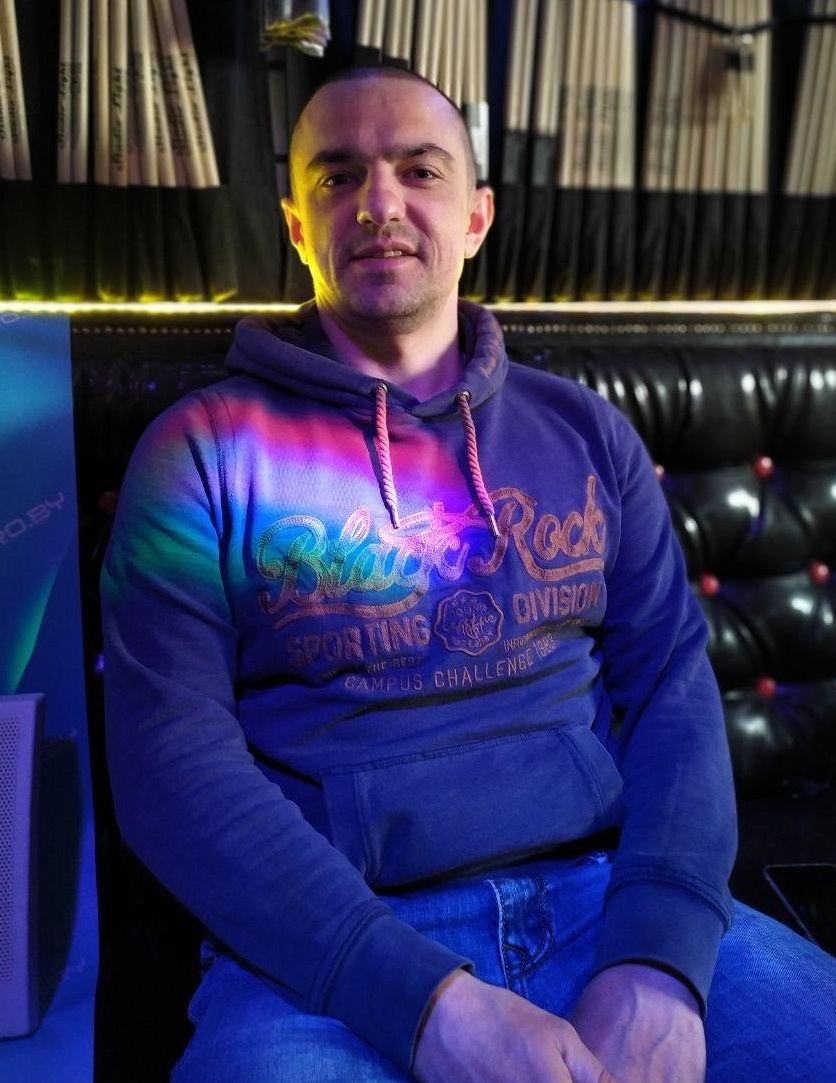
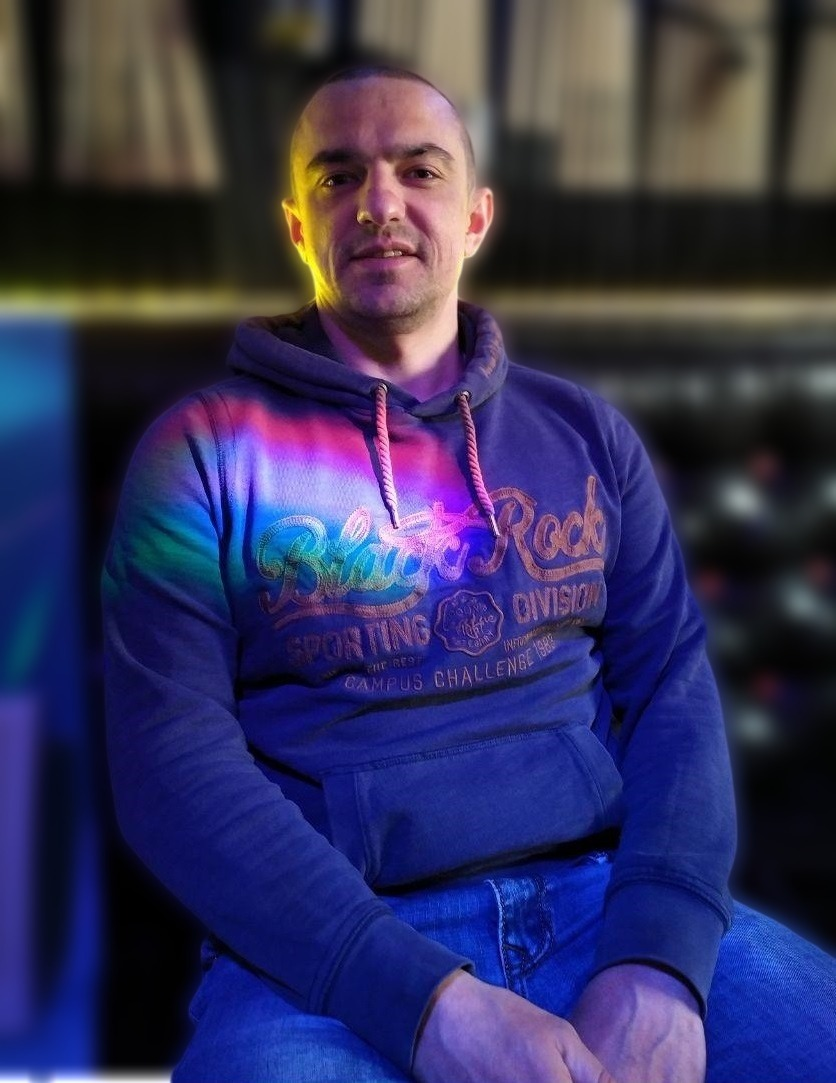
add text and photo to main section

diff --git a/src/layout/sections/main/Main.tsx b/src/layout/sections/main/Main.tsx
@@ -1,13 +1,23 @@
 import React from 'react';
+import photo from '../../../assets/images/my-photo (2).jpg'
+import styled from "styled-components";
 
 export const Main = () => {
     return (
         <div>
             <div>
-                <span>
-                    
-                </span>
+                <span>Hi There</span>
+                <h2>I am Andrei Huryn</h2>
+                <h1>A Frontend Developer.</h1>
             </div>
+            <Photo src={photo} alt=""/>
         </div>
     );
 };
+
+const Photo = styled.img`
+    width: 367px;
+    height: 367px;
+    object-fit: cover;
+    border-radius: 50%;
+`

diff --git a/src/App.tsx b/src/App.tsx
@@ -1,18 +1,20 @@
 import './App.css';
-import styled from 'styled-components';
 import { Header } from './layout/header/Header';
 import { Main } from './layout/sections/main/Main';
 
 
 function App() {
     return (
-        <Header/>
-        // <Main/>
+        <div className="App">
+            <Header/>
+            <Main/>
+        </div>
     );
 }
 
 export default App;
 
+/*
 const Title = styled.h1`
     font-size: 1.5em;
     text-align: center;
@@ -27,4 +29,4 @@ const StyledAnxiety = styled.div`
   display: flex;
   gap: 20px;
   align-items: flex-start;
-`
+`*/

diff --git a/src/layout/header/headerMenu/HeaderMenu.tsx b/src/layout/header/headerMenu/HeaderMenu.tsx
@@ -15,9 +15,6 @@ export const HeaderMenu = () => {
                     <a href="">Works</a>
                 </li>
                 <li>
-                    <a href="">Testimony</a>
-                </li>
-                <li>
                     <a href="">Contact</a>
                 </li>
             </ul>

diff --git a/src/layout/header/Header.tsx b/src/layout/header/Header.tsx
@@ -13,7 +13,7 @@ export const Header = () => {
 };
 
 const StyledHeader = styled.header`
-    background-color: aliceblue;
+    background-color: #83ce9c;
     display: flex;
     justify-content: space-between;
 `
